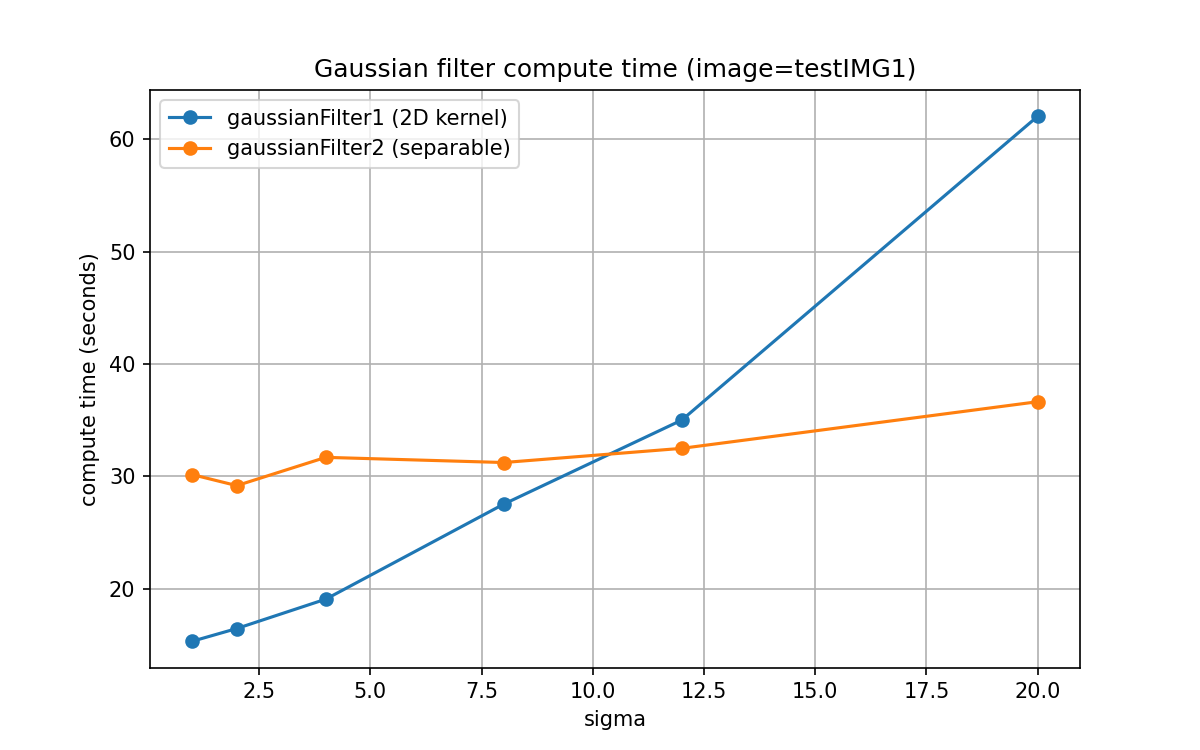
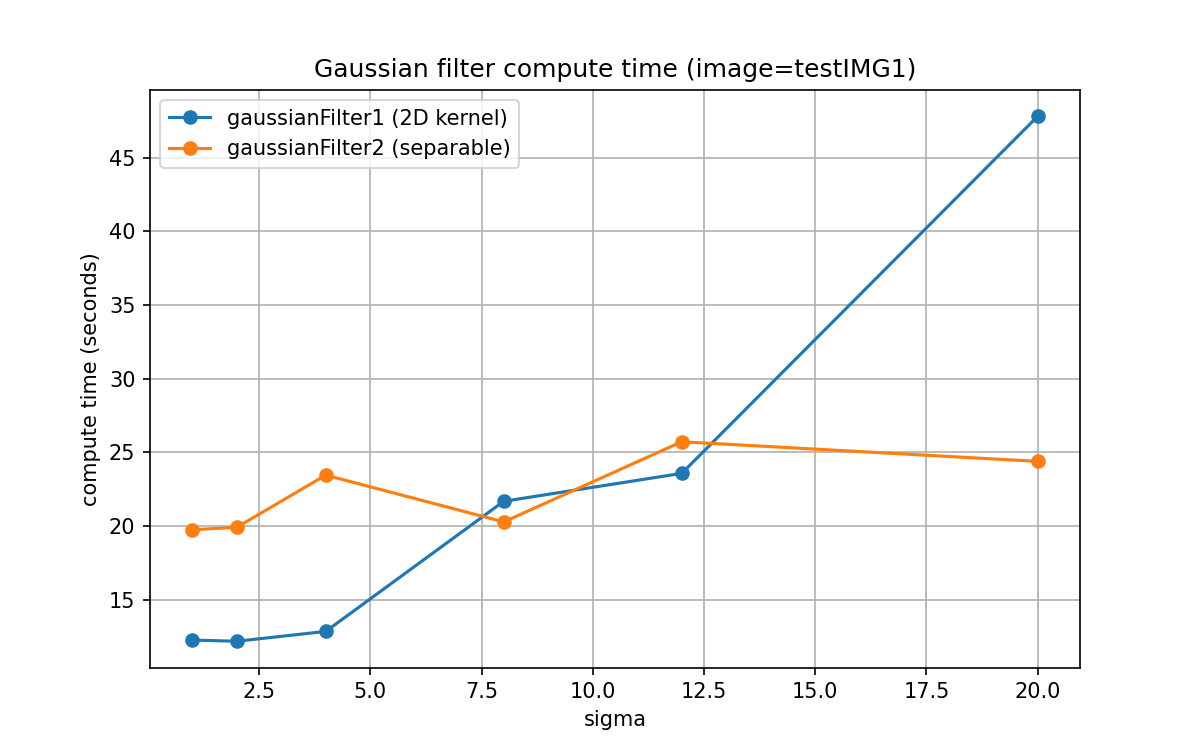
update

diff --git a/COL783/A1/p2_q5_local.py b/COL783/A1/p2_q5_local.py
@@ -368,6 +368,7 @@ def testLapGauss(
     print(f"Testing Laplacian-of-Gaussian permutations on {base}; outputs -> {out_dir}")
     for sigma in sigma_list:
         print(f"\n=== sigma = {sigma} ===")
+        # Method A
         t0 = time.perf_counter()
         g_row = gaussian_kernel_1d(sigma)
         m = g_row.shape[1]
@@ -397,6 +398,7 @@ def testLapGauss(
         timeA = t1 - t0
         times_A.append(timeA)
         print(f"Method A (l * (g * f)) time: {timeA:.4f}s")
+        # Method B
         t0 = time.perf_counter()
         lf = convolve(
             l_kernel,
@@ -426,6 +428,7 @@ def testLapGauss(
         timeB = t1 - t0
         times_B.append(timeB)
         print(f"Method B (g * (l * f)) time: {timeB:.4f}s")
+        # Method C
         t0 = time.perf_counter()
         g2d = gaussian_kernel_2d(sigma)
         LG = kernel_convolve(l_kernel, g2d)
@@ -436,6 +439,7 @@ def testLapGauss(
         timeC = t1 - t0
         times_C.append(timeC)
         print(f"Method C ((l * g) * f) time: {timeC:.4f}s")
+        # Stats
         diff_AB = A.astype(np.int32) - B.astype(np.int32)
         maxAB = int(np.max(np.abs(diff_AB)))
         sumAB = int(np.sum(np.abs(diff_AB)))
